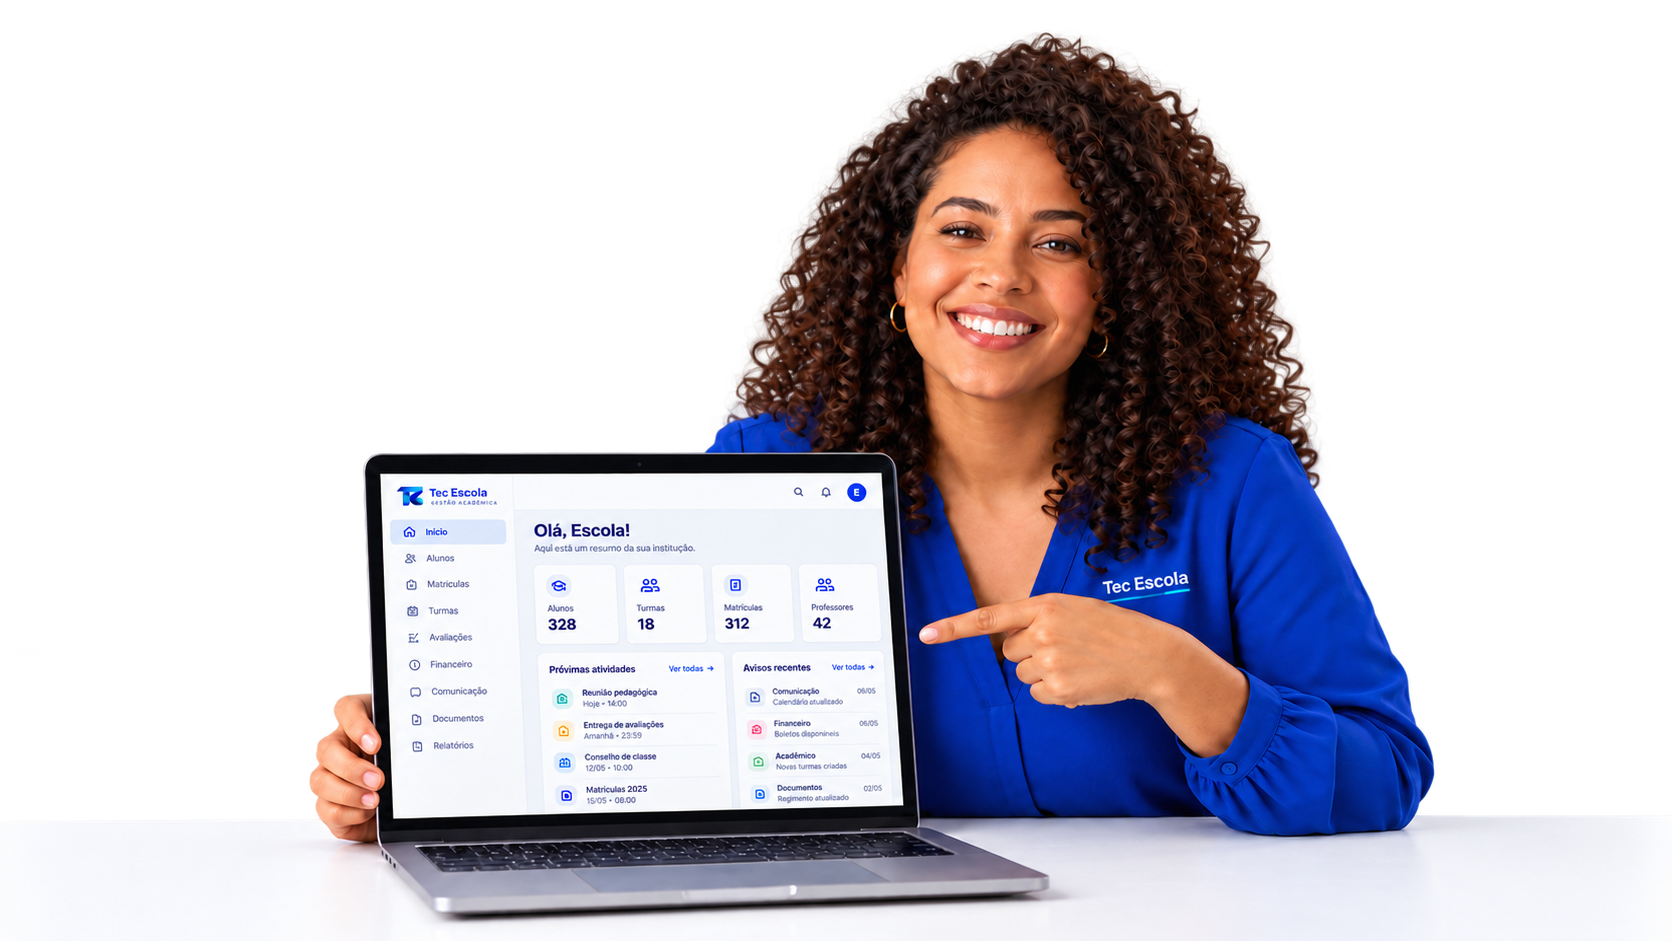
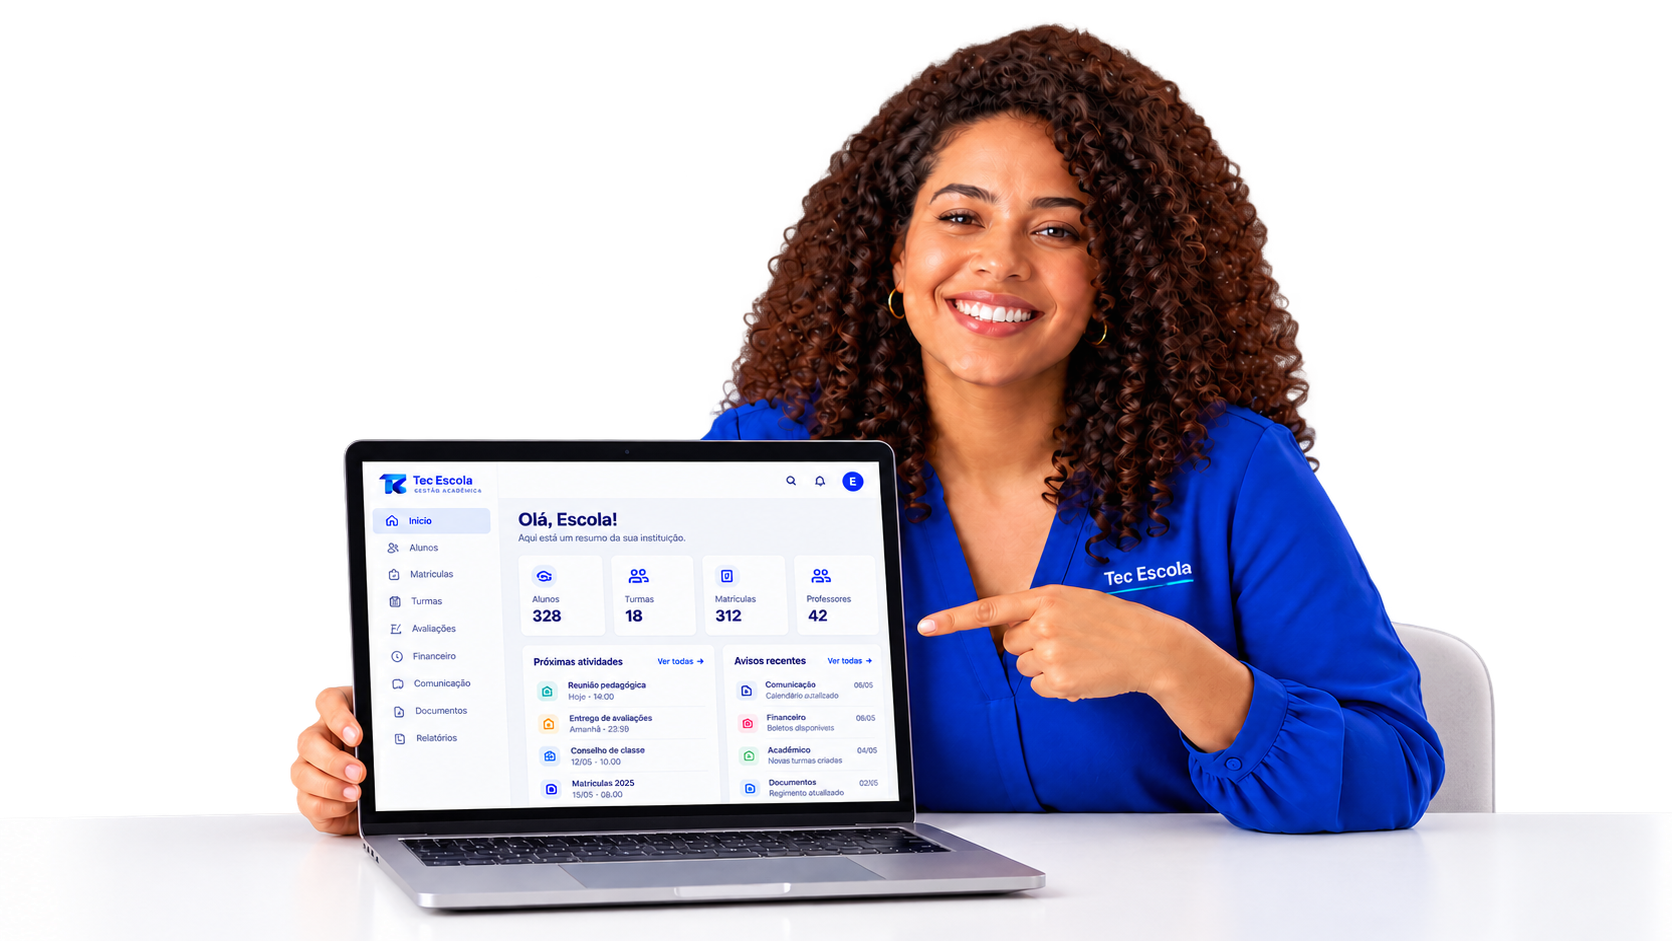
refine hero cutouts and floating feature cards

Changed region(s): [[0.1555, 0.0308, 0.9019, 0.9862]]

diff --git a/styles.css b/styles.css
@@ -83,12 +83,13 @@ h3 { font-size: 21px; line-height: 1.1; }
 .hero-slide.is-active { opacity: 1; transform: translateX(0) scale(1); }
 .hero-slide img { position: absolute; right: 0; bottom: 0; width: 100%; max-width: none; height: 100%; background: transparent; object-fit: cover; object-position: center; filter: saturate(1.04); transform: translateY(var(--image-lift, 0px)) scale(var(--image-scale, 1)); transition: transform .2s ease-out; will-change: transform; }
 .hero-slide[data-hero-slide="0"] img, .hero-slide[data-hero-slide="1"] img, .hero-slide[data-hero-slide="2"] img { object-position: center; }
-.floating-note { position: absolute; z-index: 2; display: flex; align-items: center; gap: 9px; border: 1px solid rgba(255,255,255,.32); border-radius: 8px; padding: 12px 14px; color: var(--navy); background: rgba(255,255,255,.93); box-shadow: 0 14px 34px rgba(8, 19, 78, .2); font-size: 11px; line-height: 1.25; }
-.floating-note b { font-size: 12px; }
-.note-icon { display: grid; width: 28px; height: 28px; place-items: center; border-radius: 7px; color: var(--blue); background: #e8f4ff; font-size: 18px; }
-.note-top { top: 15%; left: -12%; animation: float-note-a 5.6s ease-in-out infinite; }
-.note-middle { top: 44%; right: -9%; animation: float-note-b 6.4s ease-in-out -1.4s infinite; }
-.note-bottom { bottom: 11%; left: -10%; animation: float-note-a 5.1s ease-in-out -2.2s infinite; }
+.floating-note { position: absolute; z-index: 2; display: flex; min-width: 158px; align-items: center; gap: 10px; border: 1px solid rgba(168,241,244,.64); border-radius: 12px; padding: 11px 14px; color: var(--white); background: linear-gradient(135deg, rgba(7,26,75,.86), rgba(7,95,234,.72)); box-shadow: 0 18px 34px rgba(3, 24, 64, .24), inset 0 1px 0 rgba(255,255,255,.2); backdrop-filter: blur(8px); font-size: 11px; line-height: 1.2; pointer-events: none; }
+.floating-note b { color: var(--cyan); font-size: 12px; }
+.note-icon { display: grid; flex: 0 0 30px; width: 30px; height: 30px; place-items: center; border: 1px solid rgba(255,255,255,.46); border-radius: 9px; color: var(--white); background: rgba(255,255,255,.12); font-size: 15px; font-weight: 800; }
+.note-notas { top: 8%; left: -15%; animation: float-note-a 6s ease-in-out infinite; }
+.note-comunicacao { top: 10%; right: -16%; min-width: 146px; animation: float-note-b 6.8s ease-in-out -1.2s infinite; }
+.note-tv { top: 47%; right: -16%; min-width: 146px; animation: float-note-c 7.2s ease-in-out -2.1s infinite; }
+.note-financeira { bottom: 8%; left: -17%; animation: float-note-d 6.4s ease-in-out -3s infinite; }
 .demo-section { width: 100%; padding: 78px 0; border-radius: 0; background: linear-gradient(112deg, #0c2b83 0%, #2d48d2 37%, #58bde9 72%, var(--cyan) 100%); box-shadow: none; }
 .demo-layout { display: flex; width: min(1180px, calc(100% - clamp(32px, 5vw, 48px))); margin: 0 auto; align-items: center; justify-content: space-between; gap: clamp(32px, 6vw, 86px); }
 .demo-copy { min-width: 0; max-width: 520px; flex: 1 1 0; color: var(--white); }
@@ -109,8 +110,10 @@ h3 { font-size: 21px; line-height: 1.1; }
 .form-privacy { display: block; margin-top: 16px; color: #8994a8; font-size: 11px; line-height: 1.4; }
 .form-status { min-height: 16px; margin: 9px 0 0; color: #087c58; font-size: 11px; font-weight: 700; }
 
-@keyframes float-note-a { 0%, 100% { transform: translate3d(0, 0, 0) scale(var(--note-scale, 1)); } 50% { transform: translate3d(0, -9px, 0) scale(var(--note-scale, 1)); } }
-@keyframes float-note-b { 0%, 100% { transform: translate3d(0, 0, 0) rotate(0deg) scale(var(--note-scale, 1)); } 50% { transform: translate3d(0, 8px, 0) rotate(1deg) scale(var(--note-scale, 1)); } }
+@keyframes float-note-a { 0%, 100% { transform: translate3d(0, 0, 0) rotate(-2deg) scale(var(--note-scale, 1)); } 50% { transform: translate3d(0, -10px, 0) rotate(-1deg) scale(var(--note-scale, 1)); } }
+@keyframes float-note-b { 0%, 100% { transform: translate3d(0, 0, 0) rotate(2deg) scale(var(--note-scale, 1)); } 50% { transform: translate3d(0, 8px, 0) rotate(1deg) scale(var(--note-scale, 1)); } }
+@keyframes float-note-c { 0%, 100% { transform: translate3d(0, 0, 0) rotate(-1deg) scale(var(--note-scale, 1)); } 50% { transform: translate3d(8px, -8px, 0) rotate(1.5deg) scale(var(--note-scale, 1)); } }
+@keyframes float-note-d { 0%, 100% { transform: translate3d(0, 0, 0) rotate(1deg) scale(var(--note-scale, 1)); } 50% { transform: translate3d(-7px, 8px, 0) rotate(-1.5deg) scale(var(--note-scale, 1)); } }
 
 .trust-strip { color: var(--white); background: #071a4b; }
 .trust-grid { display: grid; min-height: 90px; grid-template-columns: 1fr auto; align-items: center; gap: 27px; }
@@ -256,15 +259,16 @@ h3 { font-size: 21px; line-height: 1.1; }
   .showcase-grid { gap: clamp(36px, 5vw, 70px); }
   .director-dashboard-frame, .director-dashboard-image { min-height: 500px; }
   .demo-section { z-index: 3; }
-  .note-top { top: 13%; left: -10%; }
-  .note-middle { top: 43%; right: -8%; }
-  .note-bottom { bottom: 9%; left: -10%; }
+   .note-notas { top: 10%; left: -6%; }
+   .note-comunicacao { top: 14%; right: -16%; }
+   .note-tv { top: 50%; right: -17%; }
+   .note-financeira { bottom: 8%; left: -8%; }
   .profile-shell { grid-template-columns: minmax(0, .72fr) minmax(0, 1.28fr); gap: clamp(30px, 4vw, 60px); min-height: 560px; }
   .profile-section::before { width: 100%; }
 }
 @media (max-width: 760px) {
   .shell { width: min(100% - 32px, 560px); }.section { padding: 78px 0; }.site-header { height: 68px; padding: 0 16px; }.desktop-nav, .header-actions { display: none; }.menu-button { display: block; }.site-header.menu-open { color: var(--white) !important; background: var(--navy) !important; }.site-header.menu-open .brand-logo { filter: brightness(0) invert(1) !important; }.site-header.menu-open .menu-button { color: var(--white) !important; }.site-header.menu-open .desktop-nav { position: absolute; top: 68px; right: 0; left: 0; display: grid; gap: 0; margin: 0; padding: 14px 16px 20px; color: var(--white) !important; background: var(--navy) !important; }.site-header.menu-open .desktop-nav a { padding: 12px 0; color: var(--white) !important; }
-  .hero { min-height: 0; padding: 118px 0 0; }.hero-grid { display: flex; flex-direction: column; align-items: stretch; gap: 22px; padding-bottom: clamp(32px, 8vw, 56px); }.hero-copy { padding: 0; }.hero-person { --hero-shift-x: 0px; position: relative; right: auto; bottom: auto; width: 100%; margin-right: 0; min-height: 0; aspect-ratio: 16 / 9; align-self: auto; opacity: 1; order: 2; }.hero-slides { background: transparent; }.hero-slide img { right: 0; width: 100%; height: 100%; object-position: center; }.hero-slide[data-hero-slide="0"] img, .hero-slide[data-hero-slide="1"] img, .hero-slide[data-hero-slide="2"] img { object-position: center; }.floating-note { --note-scale: .86; }.note-top { top: 5%; left: -10%; }.note-middle { top: 43%; right: -10%; }.note-bottom { bottom: 9%; left: -10%; }.demo-section { order: 3; padding: 56px 0; }.demo-layout { width: min(100% - 32px, 560px); gap: 34px; }.demo-copy { max-width: none; }.demo-copy h2 { font-size: clamp(38px, 10vw, 56px); }.demo-form { padding: 28px; }
+  .hero { min-height: 0; padding: 118px 0 0; }.hero-grid { display: flex; flex-direction: column; align-items: stretch; gap: 22px; padding-bottom: clamp(32px, 8vw, 56px); }.hero-copy { padding: 0; }.hero-person { --hero-shift-x: 0px; position: relative; right: auto; bottom: auto; width: 100%; margin-right: 0; min-height: 0; aspect-ratio: 16 / 9; align-self: auto; opacity: 1; order: 2; }.hero-slides { background: transparent; }.hero-slide img { right: 0; width: 100%; height: 100%; object-position: center; }.hero-slide[data-hero-slide="0"] img, .hero-slide[data-hero-slide="1"] img, .hero-slide[data-hero-slide="2"] img { object-position: center; }.floating-note { --note-scale: .76; min-width: 132px; max-width: 148px; padding: 8px 9px; gap: 7px; font-size: 9px; }.floating-note b { font-size: 10px; }.note-icon { flex-basis: 24px; width: 24px; height: 24px; border-radius: 7px; font-size: 12px; }.note-notas { top: 5%; left: 1%; }.note-comunicacao { top: 16%; right: 1%; }.note-tv { top: 51%; right: 0; }.note-financeira { bottom: 5%; left: 1%; }.demo-section { order: 3; padding: 56px 0; }.demo-layout { width: min(100% - 32px, 560px); gap: 34px; }.demo-copy { max-width: none; }.demo-copy h2 { font-size: clamp(38px, 10vw, 56px); }.demo-form { padding: 28px; }
   .trust-grid { display: grid; grid-template-columns: 1fr; gap: 18px; padding: 22px 0; }.trust-grid p { margin: 0; }.trust-people { display: grid; grid-template-columns: repeat(2, minmax(0, 1fr)); gap: 14px 28px; justify-content: initial; }.trust-grid span { display: block; font-size: 14px; }
   .intro-grid, .showcase-grid, .differentiator-grid, .mobile-grid { grid-template-columns: 1fr; gap: 40px; }.intro-grid h2 { font-size: clamp(40px, 10vw, 58px); }.feature-grid { grid-template-columns: 1fr; margin-top: 42px; }.feature-card { min-height: 0; }.profile-section::before { width: 100%; opacity: .56; background-position: 28% center; }.profile-section::after { background: linear-gradient(180deg, rgba(7,28,88,.14) 0%, rgba(7,28,88,.74) 44%, #071c58 76%, #071c58 100%); }.profile-shell { display: block; min-height: 0; }.profile-section .center-heading { max-width: 620px; margin: 0 0 34px; text-align: left; }.profile-section .center-heading::before { inset: -24% -18% -32% -18%; background: radial-gradient(ellipse 78% 88% at 48% 44%, rgba(7,28,88,.62) 0%, rgba(7,28,88,.34) 50%, rgba(7,28,88,0) 84%); filter: blur(7px); }.profile-grid { display: flex; flex-wrap: wrap; gap: 14px; }.profile-card { flex: 0 0 calc(50% - 7px); min-height: 186px; width: calc(50% - 7px); }.profile-card:last-child { flex-basis: 100%; width: 100%; }.profile-icon { margin-bottom: 24px; }.stacked-panels { min-height: 400px; }.stack-panel { min-height: 220px; }.stack-panel span { margin-bottom: 68px; }.panel-back { right: 20px; left: 20px; }.panel-middle { right: 10px; left: 10px; }.phone-stage { min-height: 560px; }.phone-device { width: min(340px, 82%); }.phone-orbit-one { width: 460px; height: 230px; }.phone-orbit-two { width: 360px; height: 500px; }.phone-orbit-three { width: 220px; height: 440px; }.phone-tabs { max-width: none; }.director-dashboard-frame, .director-dashboard-image { min-height: 430px; }.director-dashboard-image { object-position: 50% 62%; }.footer-grid { grid-template-columns: 1fr; gap: 22px; }.footer-links { justify-content: start; }.footer-bottom { display: grid; gap: 9px; }
 }

diff --git a/index.html b/index.html
@@ -10,7 +10,7 @@
     <link rel="preconnect" href="https://fonts.googleapis.com" />
     <link rel="preconnect" href="https://fonts.gstatic.com" crossorigin />
     <link href="https://fonts.googleapis.com/css2?family=Figtree:wght@400;500;600;700;800;900&display=swap" rel="stylesheet" />
-    <link rel="stylesheet" href="./styles.css?v=hero-transparent-cutouts" />
+    <link rel="stylesheet" href="./styles.css?v=hero-floating-features" />
   </head>
   <body>
     <header class="site-header" data-header>
@@ -68,9 +68,10 @@
                 <img src="./assets/educador-dashboard-uniforme-horizontal-cutout.png?v=transparent-cutouts" alt="Educador sorrindo com o dashboard do Tec Escola visível no notebook e uniforme Tec Escola" />
               </figure>
             </div>
-            <div class="floating-note note-top"><span class="note-icon">◌</span><span>Decisões<br /><b>mais claras</b></span></div>
-            <div class="floating-note note-middle"><span class="note-icon">◷</span><span>Mais tempo<br /><b>para educar</b></span></div>
-            <div class="floating-note note-bottom"><span class="note-icon">↗</span><span>Todos<br /><b>conectados</b></span></div>
+            <div class="floating-note note-notas" aria-hidden="true"><span class="note-icon">▤</span><span>Notas e<br /><b>frequência</b></span></div>
+            <div class="floating-note note-comunicacao" aria-hidden="true"><span class="note-icon">●</span><span>Comunicação<br /><b>em tempo real</b></span></div>
+            <div class="floating-note note-tv" aria-hidden="true"><span class="note-icon">▶</span><span>TV Escola</span></div>
+            <div class="floating-note note-financeira" aria-hidden="true"><span class="note-icon">▦</span><span>Gestão<br /><b>financeira</b></span></div>
           </div>
         </div>
 
